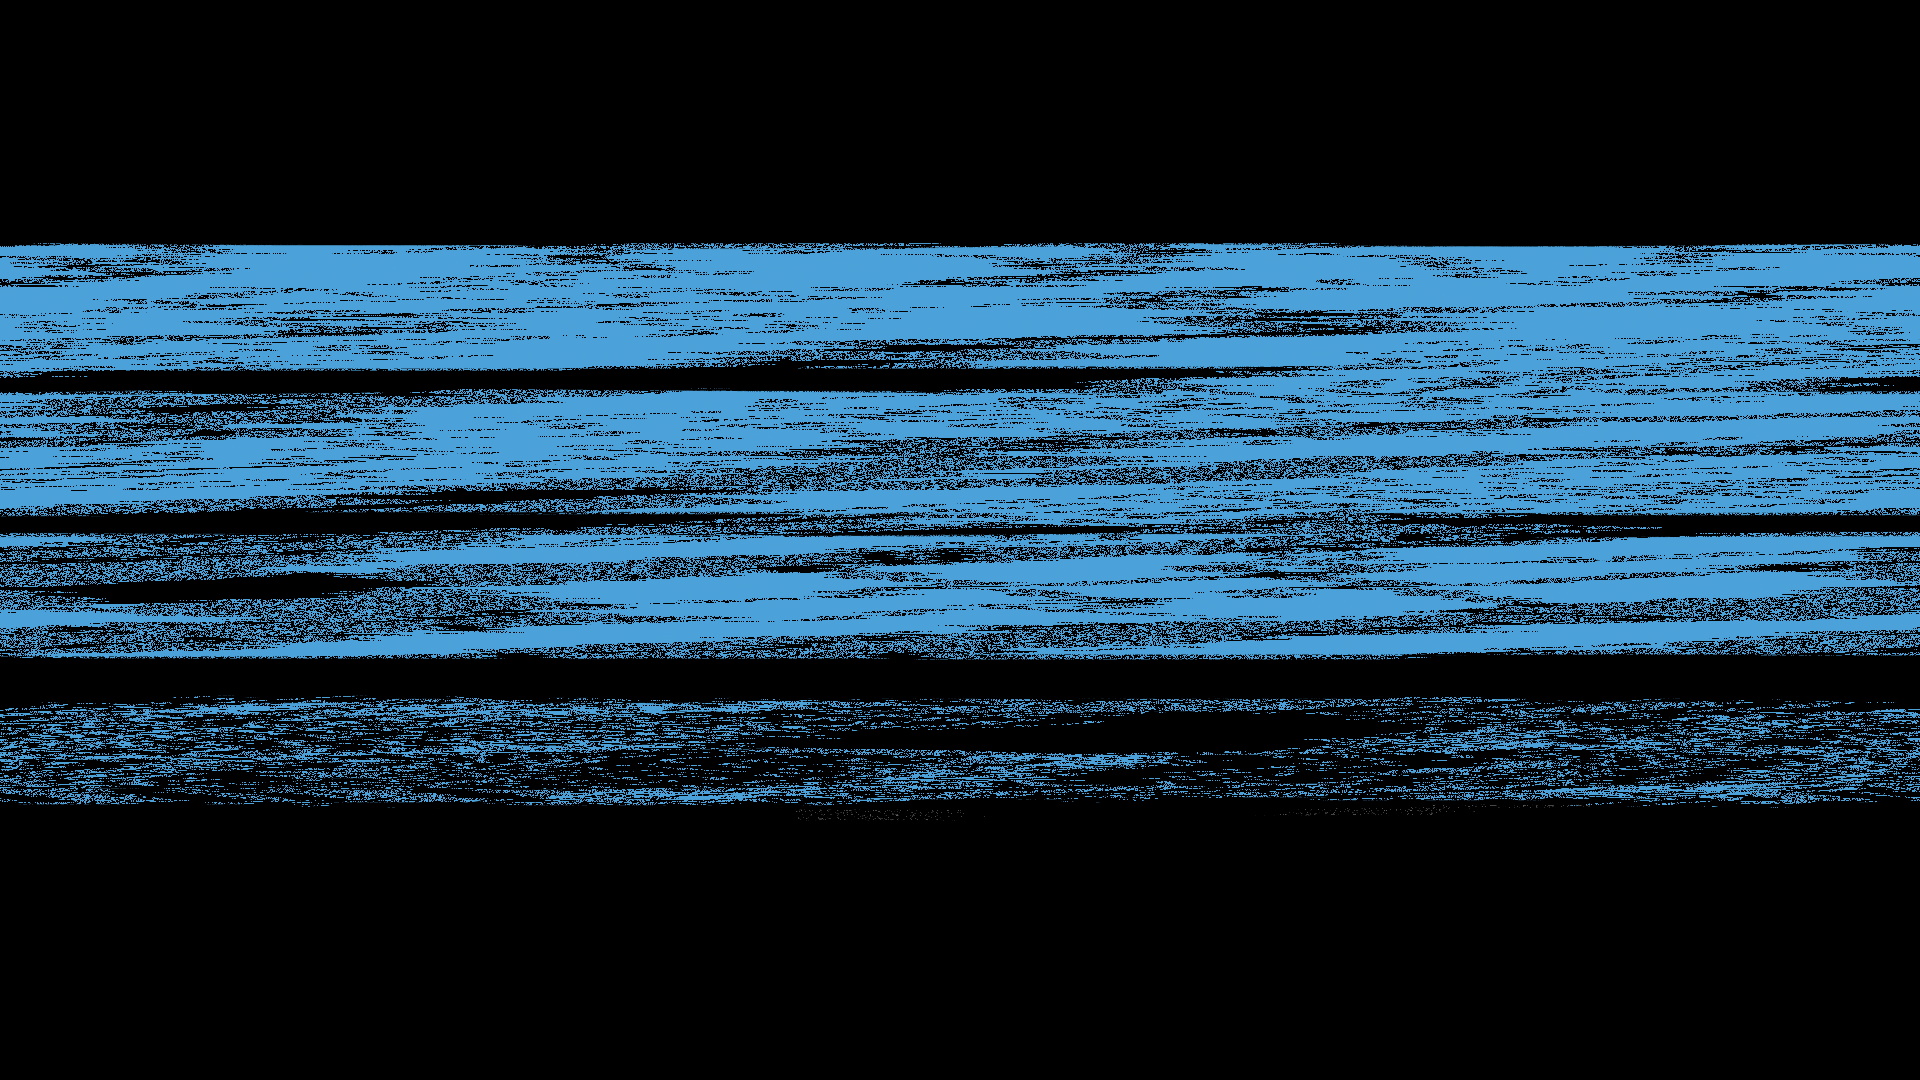
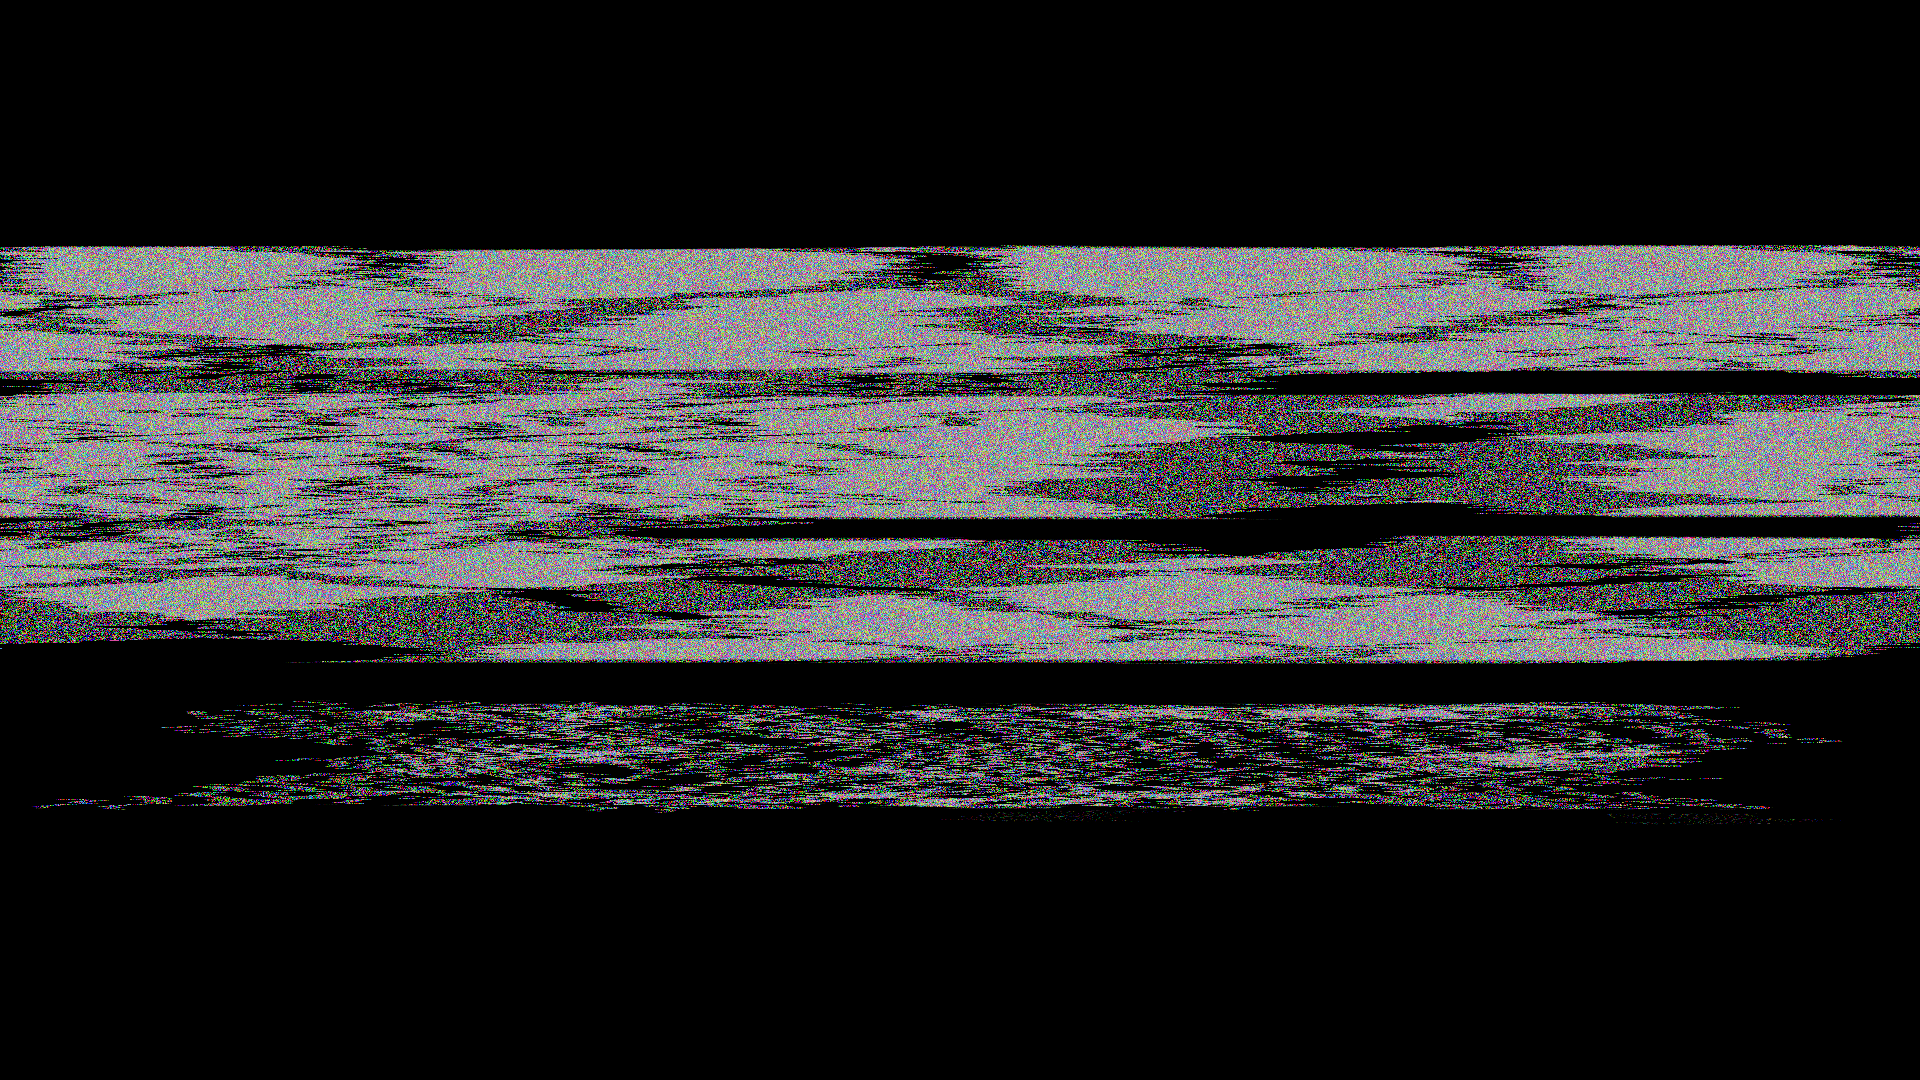
Passing colors in channels.

diff --git a/src/goglitch.go b/src/goglitch.go
@@ -26,7 +26,7 @@ func init() {
 func main() {
 	numGoRoutines := 2
 
-	ch := make(chan color.Color)
+	ch := make(chan uint32)
 
 	fmt.Println("Startup.")
 
@@ -58,23 +58,34 @@ func main() {
 	png.Encode(outFile, outImg)
 }
 
-func reader(palette chan color.Color, inImg image.Image, b image.Rectangle) {
+func reader(palette chan uint32, inImg image.Image, b image.Rectangle) {
 	defer wg.Done()
 
 	for y := b.Min.Y; y < b.Max.Y; y++ {
 		for x := b.Min.X; x < b.Max.X; x++ {
-			palette <- inImg.At(x, y)
+			r, g, b, _ := inImg.At(x, y).RGBA()
+			palette <- r
+			palette <- g
+			palette <- b
 		}
 	}
 
 }
 
-func writer(palette chan color.Color, outImg image.Image, b image.Rectangle) {
+func writer(palette chan uint32, outImg image.Image, b image.Rectangle) {
 	defer wg.Done()
 
 	for y := b.Min.Y; y < b.Max.Y; y++ {
 		for x := b.Min.X; x < b.Max.X; x++ {
-			value := <-palette
+			r := <-palette
+			g := <-palette
+			b := <-palette
+			value := color.RGBA{
+				uint8(r / 255),
+				uint8(g / 255),
+				uint8(b / 255),
+				255,
+			}
 			outImg.(draw.Image).Set(x, y, value)
 		}
 	}
